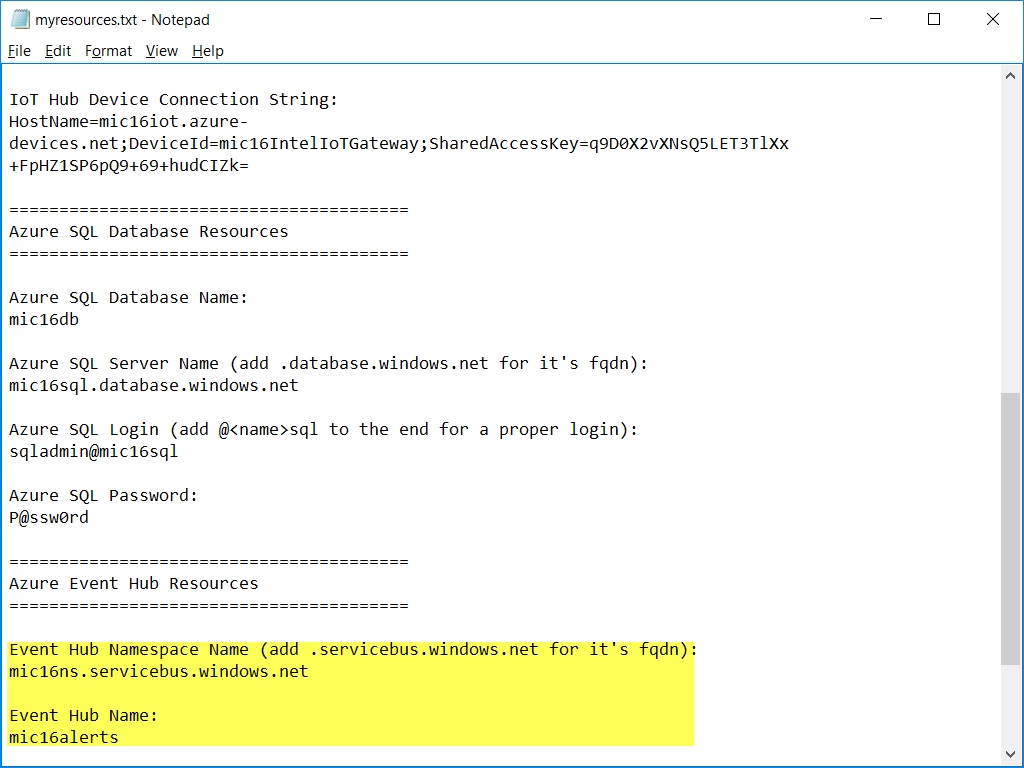
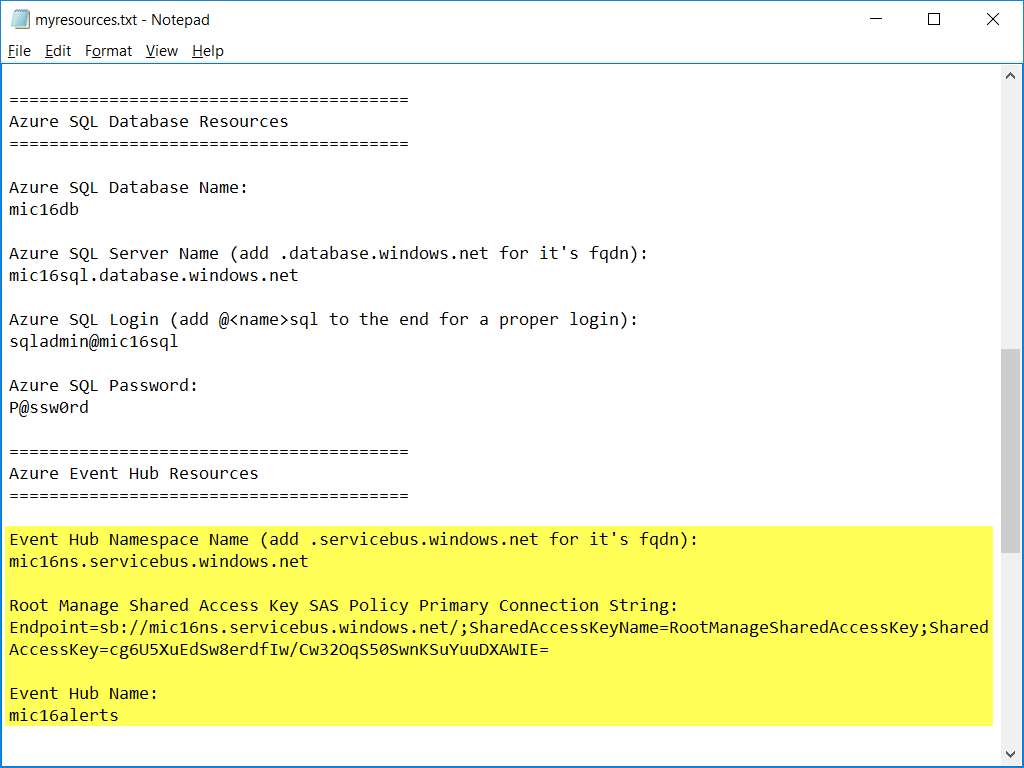
Working on Azure function event processing

diff --git a/HOLs/readme.md b/HOLs/readme.md
@@ -997,6 +997,14 @@ Next up is the ***&lt;name&gt;alerts*** Event Hub that the ***&lt;name&gt;job***
 
     ![Event Hub Created](images/10260-EventHubCreated.png)
 
+1. Click the "**Shared access policies**" link along the left hand side, and then click on the "**RootManageSharedAccessKey**"
+
+    ![SAS Policies](images/10262-SASPolicies.png)
+
+1. Then on the "**Policy: RootManageSharedAccessKey**" page, click the button to copy the primary connection string to the clipboard:
+
+    ![Copy the RootManageSharedAccess Key](images/10263-RootManagedSharedAccessKey.png)
+
 1. Take a minute to document your Event Nub Namespace and Event Hub names:
 
     ![Document Event Hub](images/10265-DocumentEventHub.png)
@@ -1294,6 +1302,106 @@ ___
 Sending Messages from the Azure IoT Hub to the Intel Gateway
 ---
 
+All of the message flow so far has been from the device to the cloud (device-to-cloud messages). In this section, we'll see how to send messages from the cloud back down to the device (cloud-to-device messages). 
+
+We'll configure our Intel NUC to turn on it's buzzer for one second if it receives a message from the Azure IoT Hub with the following format:
+
+```json
+{
+    "type"    : "temp",
+    "message" : "some message"
+}
+```
+### Add the Buzzer Device and Code to the Intel NUC ###
+
+1. Attach the "**Buzzer**" to "**D3**" on the "**Grove Base Shield"** as shown below:
+
+    ![Buzzer Attached](images/12010-BuzzerAttached.png)
+
+1. Copy the contents out of "**HOLs\Node-RED Flows\Flow - Add Buzzer Support.json**" file into the clipboard. 
+
+1. Open the Intel NUCs Node-RED development environment in your browser (http://xxx.xxx.xxx.xxx:1880 where xxx.xxx.xxx.xxx is your NUC's IP Address),  from the "**Hamburger**" menu in the top right corner select "**Import**" | "**Clipboard**"
+
+    ![Import From Clipboard](images/12020-ImportFromClipboard.png)
+
+1. Paste the code copied from the "**HOLs\Node-RED Flows\Flow - Add Buzzer Support.json**" file into the "**Import nodes**" box, and click "**OK**".
+
+    ![Import Nodes](images/12030-ImportNodes.png)
+
+1. Then move your mouse to place the imported nodes where you want (if you hold the shift key while you move your mouse the nodes will snap to the grid), and then connect the output of the "**azureiothub**" node to the input of the "**To String**" node as shown below.  Click the "**Deploy**" button when you are done to deploy the changes..  
+
+     The nodes being added do the following:
+
+    - The **To String** function converts the byte data returned by the "**azureiothub**" node into a string value. 
+    - The **json** node then deserializes that string into an object.  
+    - The "**msg.payload**" debug node displays the object to the **debug** panel. 
+    - The "**If Temp Alert** node checks the "type" property on the object to see if it is literally "temp" if it is, the subsequent tasks are allowed to run. 
+    - The "**Turn on Buzzer**" task does nothing more than create a payload with a value of 1 to cause the buzzer to turn on. 
+    - The "**Grove Buzzer**" then looks at the payload coming in, and if it is a 1, id sounds the buzzer for a hard coded one second (1000000 microseconds).
+    - The "**Get the Message**" node extracts just the "message" property from the object and passes it to the "**Show the Message**" node. 
+    - The "**Show the Message**" node displays the message text on the second row of the LCD panel and flashes the background of the panel red (rgb 255,0,0).
+
+    ![Imported Nodes](images/12040-ImportedNodes.png)
+
+1. The Azure Web App we deployed in the previous task has a handy way to test the buzzer.  Open up the ***http://&lt;name&gt;web.azurewebsites.net*** web application in browser.  
+
+1. Just to the left of each device under the "**Devices**" heading there is a small green button with a lightning bolt on it (![Test Buzzer Button](images/00000-TestBuzzerButton.png)).  Click that button next to the device where you have deployed the updated Node-RED code, and you should:
+
+    > **Note**: If the test doesn't function try restarting the Azure Web App (you can open the web app in the portal, and click the "**Restart**" or "**Stop**" and "**Start**" buttons along the top), as well as ssh'ing into your Intel NUC and issuing a shutdown / reboot command:
+    <br/>
+    <br/>
+    ```bash
+    shutdown 0 -raw
+    ```
+    <br/>
+    <br/>
+
+    - Hear the buzzer sound
+    - See the test message "***Buzzer Test***" displayed briefly on the LCD
+    - See the LCD background change to red briefly.  
+
+    ![Test Buzzer Button on Web Site](images/12050-TestBuzzerOnWebsite.png)
+
+    ![Buzzer Test Message](images/12060-BuzzerTestMessageOnLcd.png)
+
+### Create an Azure Function to Process the Event Hub Messages and Alert the Device ###
+
+Previously, we setup our ***&lt;name&gt;job*** Stream Analytics Job to forward messages coming in from the IoT Hub that had a temperature value over some threshold off to the ***&lt;name&gt;alerts*** event hub.  But we never did anyhing with those Event Hub alert messages.  Now we will. 
+
+In this task, we'll create the **TempAlert** function and have it receive those alert messages from the event hub, and send a temp alert message back down to the device.    
+
+1. Open the [Azure Port](https://portal.azure.com) in the browser, and close any blades open from previous steps.  Then click "**+ New**" | "**Compute**" | "**Function App**".  Complete the properties as follows then click the "**Create**" button:
+
+    - App name - ***&lt;name&gt;functions***
+    - Subscription - **Chose the same subscription used for the previous resources**
+    - Resource group - Choose "**Use existing**" and select the ***&lt;name&gt;group*** resource group created previously
+    - App Service Plan - Choose the ***&lt;name&gt;plan*** plan we created previously.
+    - Storage Account - Select "**Create New**" and name it ***&lt;name&gt;storage***
+    - Pin to dashboard - **Checked**
+
+    ![New Function App](images/12070-NewFunctionApp.png)
+
+1.  When the new Function App is deployed, and it's blade open's in the portal, click the "**+New Function**" button, and select "**EventHubTrigger - C#**"
+
+    ![Event Hub Trigger C# Function](images/12080-NewCSharpEventHubTriggerFunction.png)
+
+1. **SCROLL DOWN** to continue configuring the new function.  
+    - Name - **TempAlert**
+    - Event Hub Name - ***&lt;name&gt;alerts***
+    - Event Hub connection - Click the "**new**" link
+
+    ![New Function Properties](images/12090-NewFunctionProperties.png)
+    
+1. On the "**Service Bus connection**" blade, click "**Add a connection string**" the configure the properties on the **"Add Service Bus connection**" blade as follows and click "**OK**":
+
+    - Connection name - ***&lt;name&gt;ns***
+    - Connection string - Copy the value for the "**Root Manage Shared Access Key SAS Policy Primary Connection String:** from the **[myresources.txt](myresources.txt)" file and paste it in here:
+
+    ![Event Hub Connection String](images/12100-EventHubConnection.png)
+
+1. Finally, click the "**Create**" button to create the function:
+
+    ![Create the Function](images/12100-CreateTheFunction.png)
 ___
 
 <a name="PowerBIEmbedded"></a>
